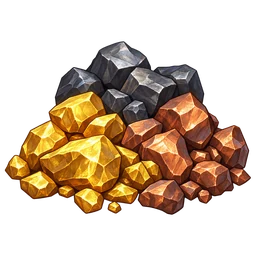
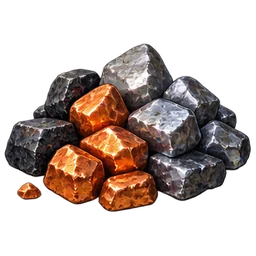
Beta 0.1.9: refreshed Farm and Mine step and pile art
Claude-Session: https://claude.ai/code/session_01T22SJ6wv5pZUs6rTHt2WWX

diff --git a/ClickToConquer/index.html b/ClickToConquer/index.html
@@ -16,7 +16,7 @@
   <link rel="apple-touch-icon" href="assets/apple-touch-icon.png">
   <link rel="preconnect" href="https://fonts.googleapis.com"><link rel="preconnect" href="https://fonts.gstatic.com" crossorigin>
   <link href="https://fonts.googleapis.com/css2?family=Cinzel:wght@500;700&family=Inter:wght@400;600;700&display=swap" rel="stylesheet">
-  <link rel="stylesheet" href="style.css?v=b018">
+  <link rel="stylesheet" href="style.css?v=b019">
 </head>
 <body>
 
@@ -490,11 +490,11 @@
 </div>
 
 
-<script src="config.js?v=b018"></script>
-<script src="cloud-config.js?v=b018"></script>
-<script src="game.js?v=b018"></script>
-<script src="ui.js?v=b018"></script>
-<script src="cloud.js?v=b018"></script>
+<script src="config.js?v=b019"></script>
+<script src="cloud-config.js?v=b019"></script>
+<script src="game.js?v=b019"></script>
+<script src="ui.js?v=b019"></script>
+<script src="cloud.js?v=b019"></script>
 <script>window.addEventListener("error", e => { const d = document.getElementById("err"); if (d) { d.textContent = "Error: " + e.message; d.classList.remove("hidden"); } });</script>
 <div id="celebrate" class="celebrate hidden" role="status" aria-live="polite"><div class="cb-ico" id="cb-ico"></div><div class="cb-txt"><div class="cb-kicker" id="cb-kicker"></div><div class="cb-title" id="cb-title"></div><div class="cb-sub" id="cb-sub"></div></div></div>
 </body>

diff --git a/ClickToConquer/config.js b/ClickToConquer/config.js
@@ -7,7 +7,7 @@
 // ============================================================
 
 const CONFIG = {
-  version: 'Beta 0.1.8',
+  version: 'Beta 0.1.9',
   tickMs: 100,
   maxCatchupSeconds: 5,
   autosaveMs: 10000,
@@ -504,6 +504,7 @@ const CONFIG = {
   // jobs (jobs completed by hand or thrall), sold (gold earned at market), stage, boss, founded, thrall (assigned), activity (swings).
   // Shown in Settings → What's new (newest first). Keep each line short.
   changelog: [
+    ['Beta 0.1.9', 'Refreshed art for every Farm and Mine step and pile.'],
     ['Beta 0.1.8', 'New art for the Farm and the Mine: every step and every pile now has its own painting.'],
     ['Beta 0.1.7', 'A new look inside every building: a flow overview shows each step\'s rate and where the bottleneck is; every step has its own card, and the piles between steps show what is waiting and whether it is building up. Step art is on the way.'],
     ['Beta 0.1.6', 'Every building has its own steps: the Farm Plants, Grows and Harvests; the Mine Digs, Extracts and Hauls; Logging Grows, Fells and Hauls; the Sawmill Loads, Saws and Stacks; the Carpenter Planes, Joins and Raises; the Forge Stokes, Smelts and Casts; the Armory Heats, Hammers and Tempers; the Mill Pours, Grinds and Sacks; the Bakery Kneads, Bakes and Delivers.'],

diff --git a/ClickToConquer/ui.js b/ClickToConquer/ui.js
@@ -674,7 +674,8 @@ const UI = (() => {
     setHtml(tip, t); tip.classList.toggle('hidden', !t);
   }
   // Beta 0.1.7: the flow view — overview strip, a card per step, and the piles between them
-  const artSlot = (src, cls, label) => `<div class="art-slot ${cls}"><span class="art-ph">${label}</span><img src="${src}" alt="" onerror="this.remove()"></div>`;
+  const ART_V = 2; // bump when step/pile art is replaced
+  const artSlot = (src, cls, label) => `<div class="art-slot ${cls}"><span class="art-ph">${label}</span><img src="${src}?v=${ART_V}" alt="" onerror="this.remove()"></div>`;
   function levelHtml(st, d) {
     const id = st.id, key = st.art || id, P = Game.PARTS, nm = p => Game.partName(id, p);
     const stepCard = (p, i) => `<div class="step-card" data-step="${p}"><div class="step-art">${artSlot(`assets/steps/${key}_${p.toLowerCase()}.webp`, 'step-img', `${key}_${p.toLowerCase()}.webp`)}</div>
